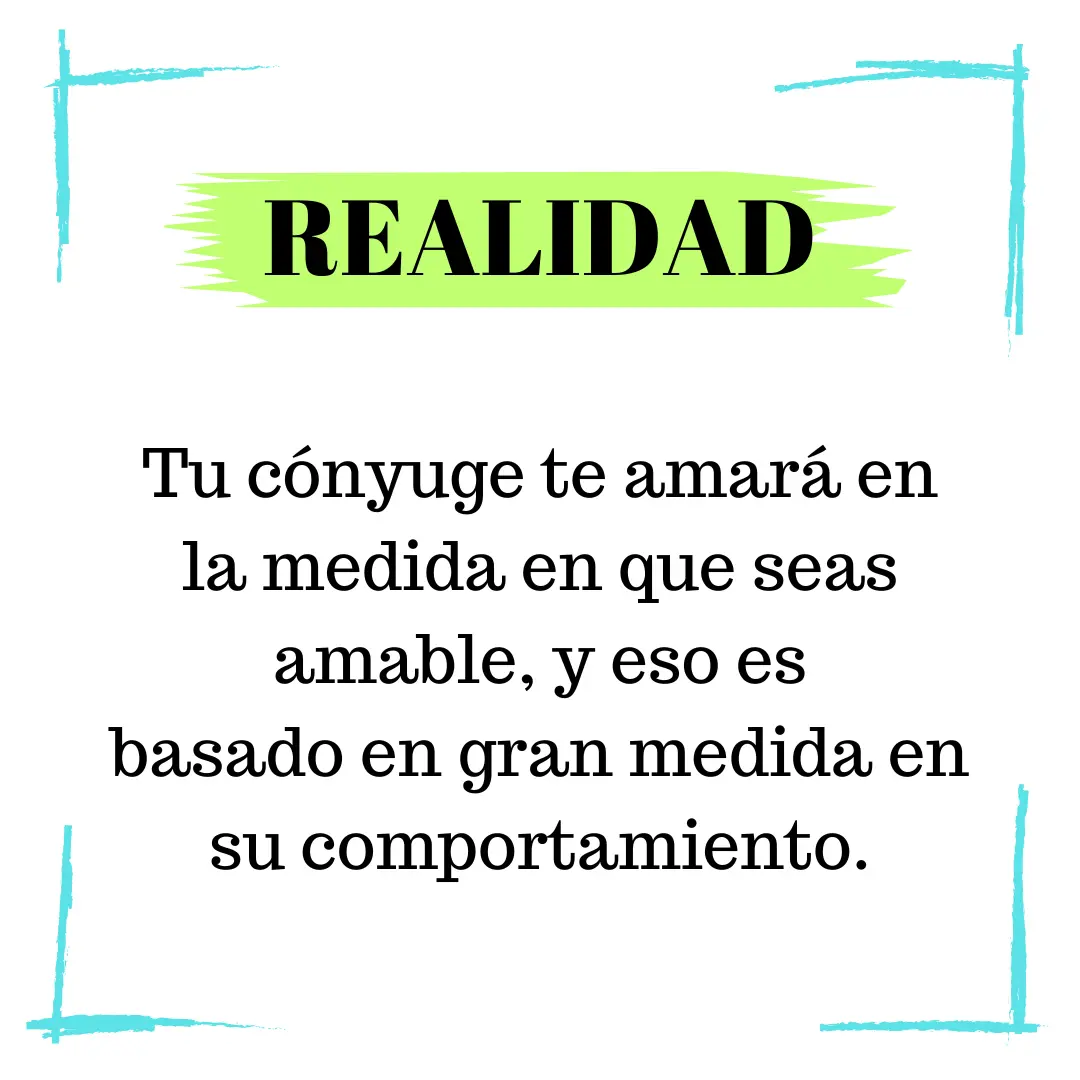
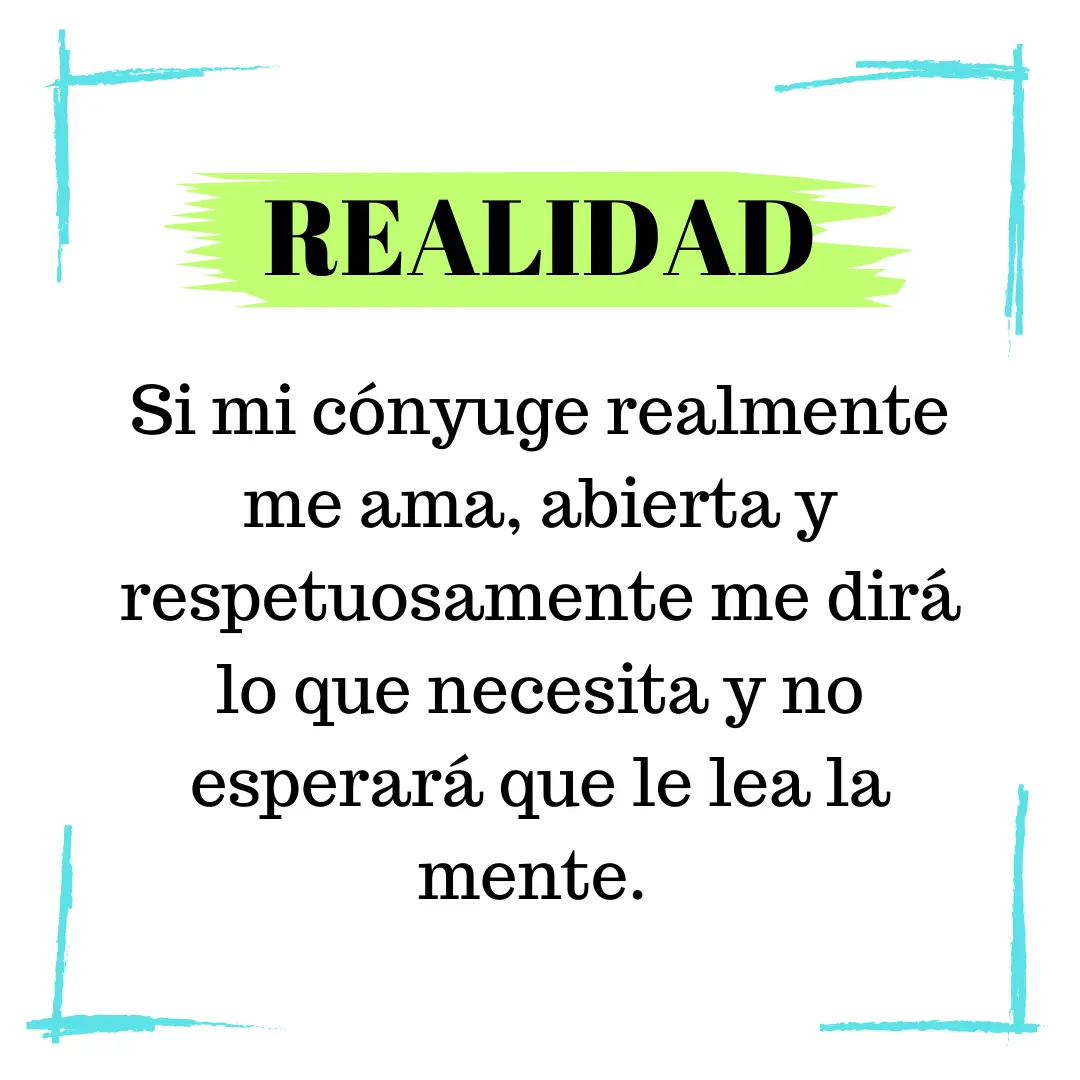
last changes in the home page

Changed region(s): [[0.0917, 0.3361, 0.9167, 0.8556]]

diff --git a/project/about-us.html b/project/about-us.html
@@ -1,0 +1,44 @@
+<!DOCTYPE html>
+<html lang="en">
+
+<head>
+    <meta charset="UTF-8">
+    <meta name="viewport" content="width=device-width, initial-scale=1.0">
+    <meta name="author" content="Erick Orellana">
+    <meta name="description" content="Web site of the business called Functional Marriages & Happy Familiest">
+    <link rel="icon" href="images/logo.webp" type="image/x-icon">
+    <title>About - us - Functional Marriages & Happy Families</title>
+    <link href="styles/base.css" type="text/css" rel="stylesheet">
+    <link href="styles/base-large.css" type="text/css" rel="stylesheet">
+    <script src="scripts/base.js" defer></script>
+    <!--Fonts-->
+    <link rel="preconnect" href="https://fonts.googleapis.com">
+    <link rel="preconnect" href="https://fonts.gstatic.com" crossorigin>
+    <link href="https://fonts.googleapis.com/css2?family=Source+Sans+3:ital,wght@0,200..900;1,200..900&display=swap"
+        rel="stylesheet">
+    <link rel="preconnect" href="https://fonts.googleapis.com">
+    <link rel="preconnect" href="https://fonts.gstatic.com" crossorigin>
+    <link
+        href="https://fonts.googleapis.com/css2?family=Montserrat:ital,wght@0,100..900;1,100..900&family=Source+Sans+3:ital,wght@0,200..900;1,200..900&display=swap"
+        rel="stylesheet">
+
+
+    <!--Bootstrap Framework-->
+    <link href="https://cdn.jsdelivr.net/npm/bootstrap@5.3.3/dist/css/bootstrap.min.css" rel="stylesheet"
+        integrity="sha384-QWTKZyjpPEjISv5WaRU9OFeRpok6YctnYmDr5pNlyT2bRjXh0JMhjY6hW+ALEwIH" crossorigin="anonymous">
+    <script src="https://cdn.jsdelivr.net/npm/bootstrap@5.3.3/dist/js/bootstrap.bundle.min.js"
+        integrity="sha384-YvpcrYf0tY3lHB60NNkmXc5s9fDVZLESaAA55NDzOxhy9GkcIdslK1eN7N6jIeHz"
+        crossorigin="anonymous"></script>
+</head>
+<body>
+    <header>
+
+    </header>
+    <main>
+
+    </main>
+    <footer>
+
+    </footer>
+</body>
+</html>

diff --git a/project/index.html b/project/index.html
@@ -10,7 +10,7 @@
     <title>Home - Functional Marriages & Happy Families</title>
     <link href="styles/base.css" type="text/css" rel="stylesheet">
     <link href="styles/base-large.css" type="text/css" rel="stylesheet">
-    <script src="scripts/index.js" defer></script>
+    <script src="scripts/base.js" defer></script>
     <!--Fonts-->
     <link rel="preconnect" href="https://fonts.googleapis.com">
     <link rel="preconnect" href="https://fonts.gstatic.com" crossorigin>

diff --git a/project/scripts/base.js b/project/scripts/base.js
@@ -35,6 +35,22 @@ const tips = [
 {
     tipName: "realidad3",
     source: "images/post/realidad3.webp"
+},
+{
+    tipName: "mito4",
+    source: "images/post/mito4.webp"
+},
+{
+    tipName: "realidad4",
+    source: "images/post/realidad4.webp"
+},
+{
+    tipName: "mito5",
+    source: "images/post/mito5.webp"
+},
+{
+    tipName: "realidad5",
+    source: "images/post/realidad5.webp"
 }
 ]
 
